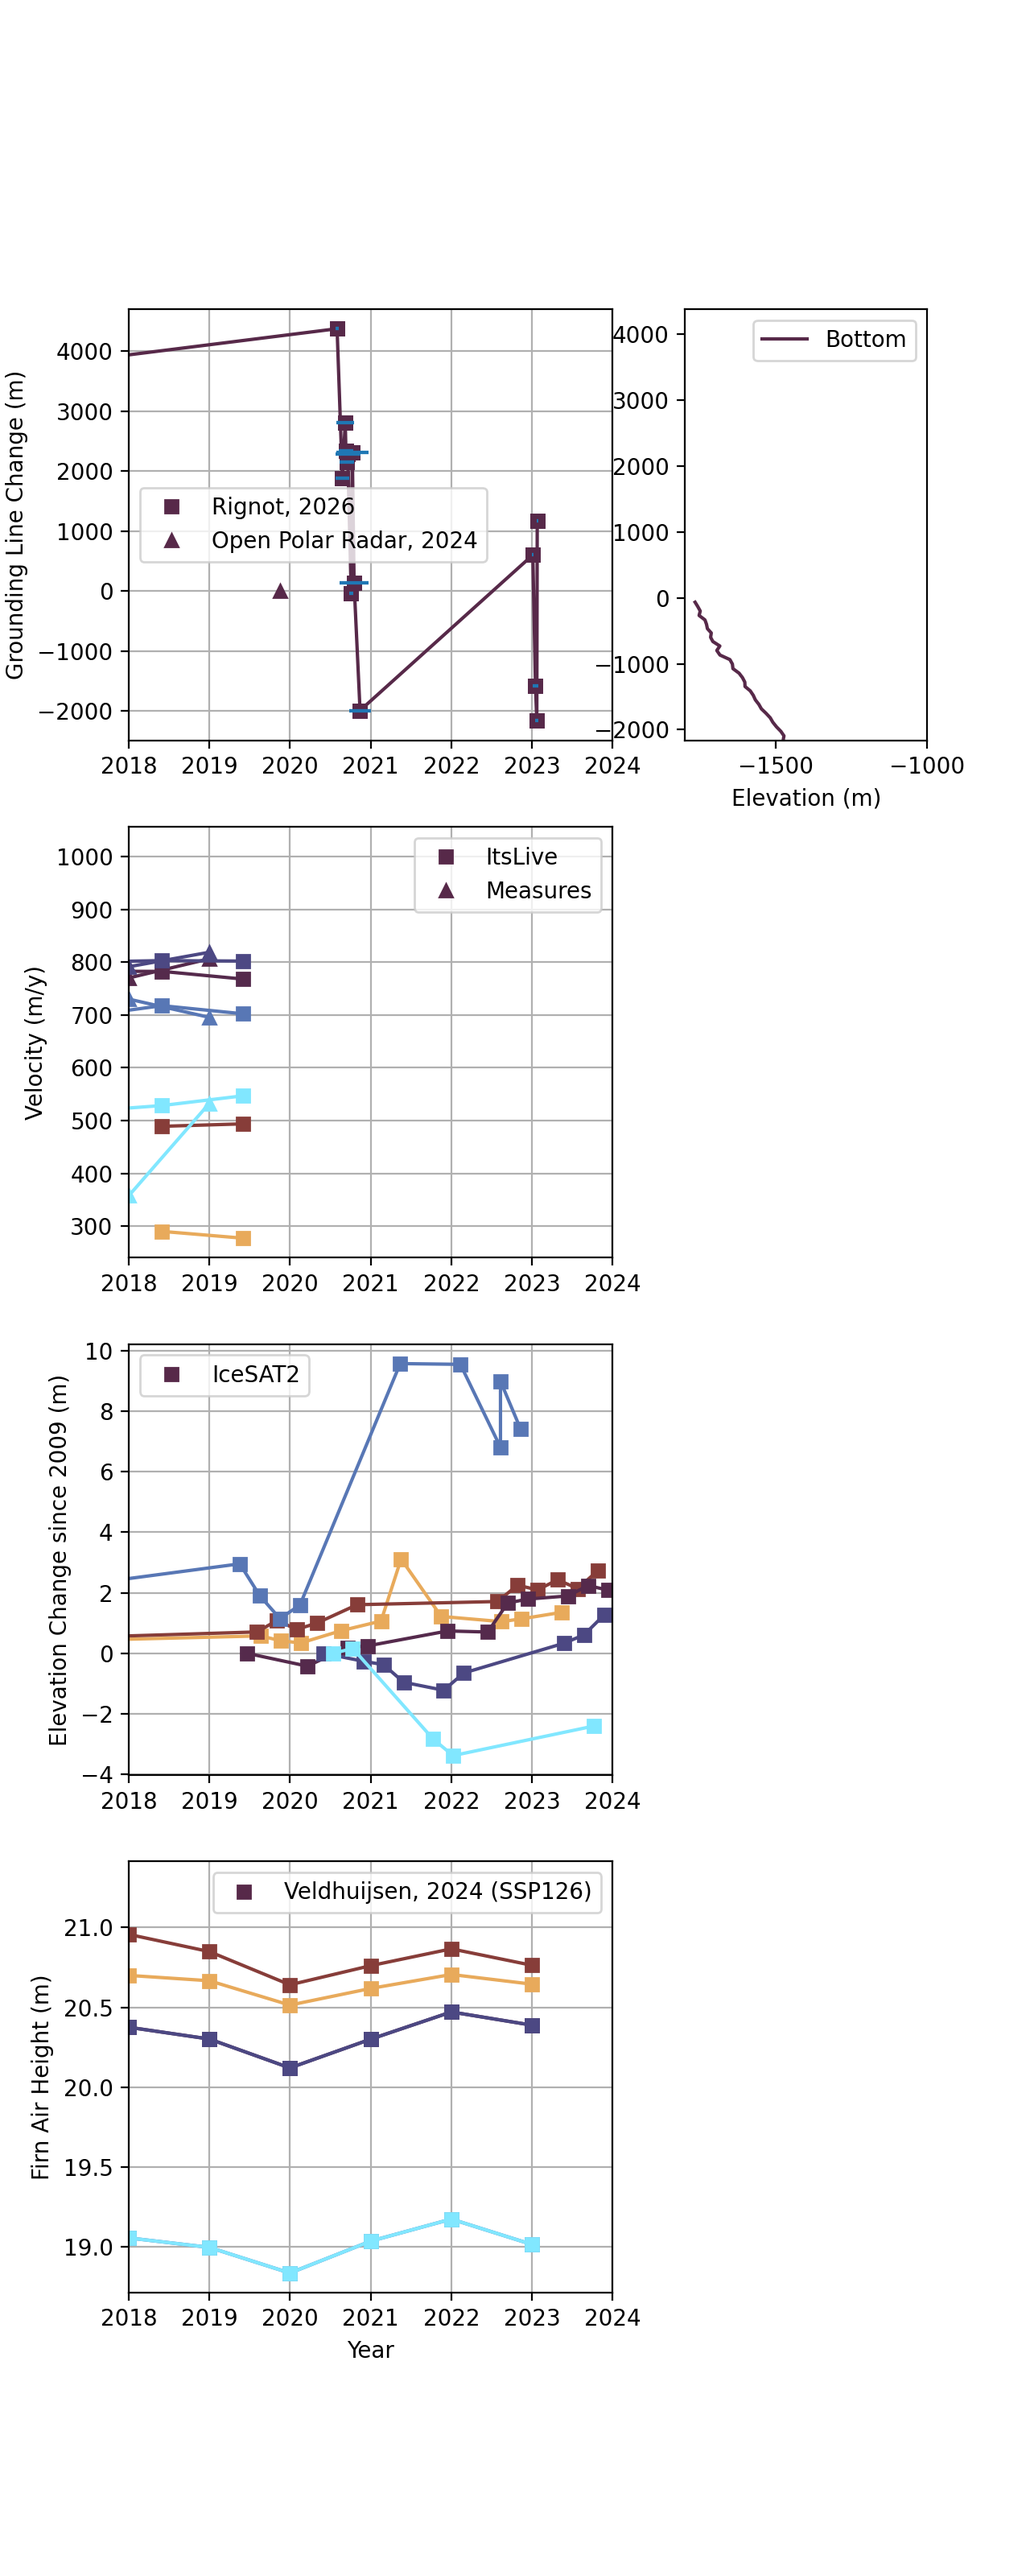
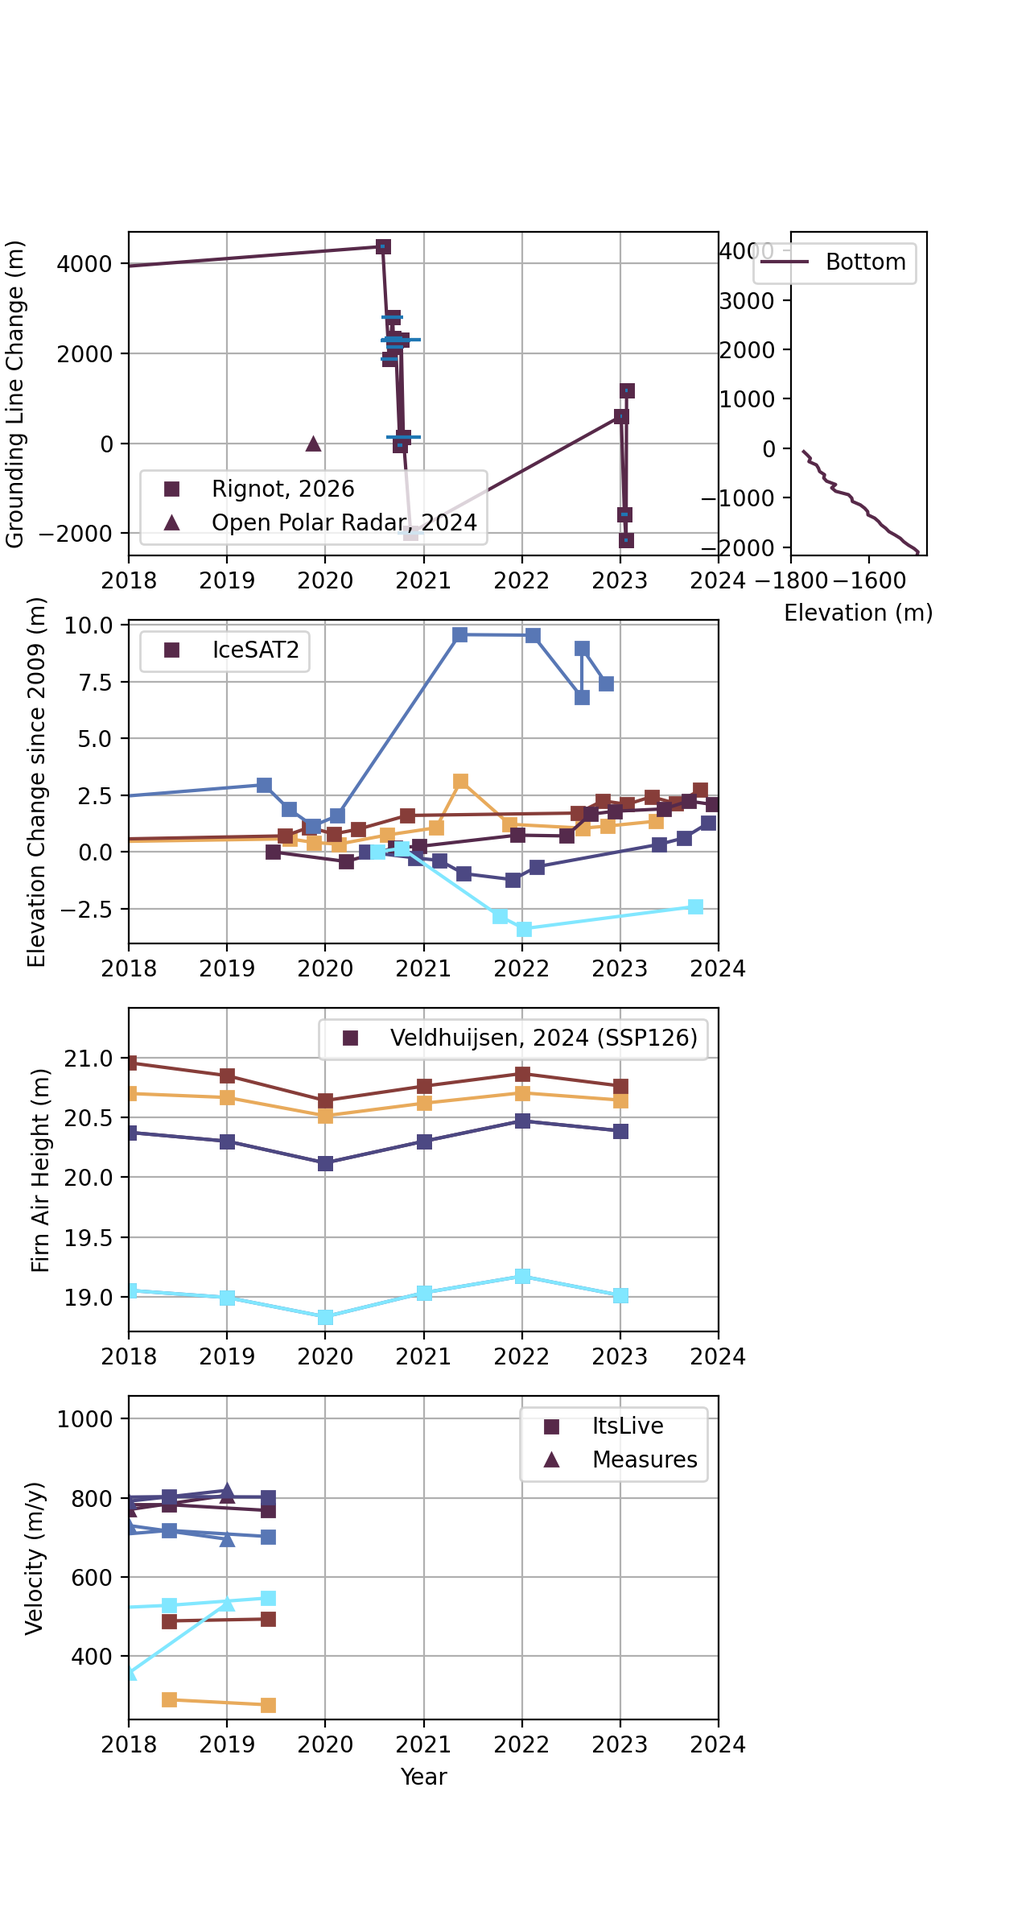
gif and fuller chart for meeting

diff --git a/src/file_manager.py b/src/file_manager.py
@@ -516,21 +516,34 @@ class ElevationManager(FileManager):
         found_files = []
         found_years = []
         found_sources = []
+        found_err = []
         
 
 
         for i, f in enumerate(f):
             cur = xr.open_dataset(f)
-            df = cur.sel(x=p[1], y=p[0], method='nearest').squeeze()['band_data'].values
-            if np.isnan(df) or df == 0:
+            df = cur.sel(x=p[1], y=p[0], method='nearest').squeeze()
+
+            if np.isnan(df['band_data'].values) or df['band_data'].values == 0:
                 continue
-            found_files.append(df)
+            
+            if self.data + '_yerr' in df.columns:
+                found_err.append(df[self.data + '_yerr'].values)
+
+            found_files.append(df['band_data'].values)
             found_years.append(years[i])
             found_sources.append('Coregistered REMA')
 
-        df = pd.DataFrame({'time': found_years,
+
+        dataset = {'time': found_years,
                            'sources': found_sources,
-                           self.data: found_files})
+                           self.data: found_files}
+        if len(found_err) != 0:
+            dataset[[self.data + '_yerr']] = found_err
+
+
+
+        df = pd.DataFrame(dataset)
         
         return df
 
@@ -655,12 +668,14 @@ class ElevationManager(FileManager):
                 df = pd.DataFrame({'latitude': track['latitude'][dates == c].flatten(),
                                     'longitude': track['longitude'][dates == c].flatten(), 
                                     'elevation': track['h_corr'][dates == c].flatten(),
+                                    'elevation_yerr': track['h_corr_sigma'][dates == c].flatten(),
                                     'date': track['datetime'][dates == c].flatten()})
                 df['geometry'] = df.apply(self.pointify, axis=1)
                 self.file[c] = pd.concat([self.file[c], df])
             
             cur_track += 1
             progress.load_bar(cur_track, max)
+
 
         i = 0
         for c in self.file.keys():
@@ -669,6 +684,8 @@ class ElevationManager(FileManager):
                 continue
             try:
                 gdf_final = gpd.GeoDataFrame(self.file[c], geometry='geometry', crs='EPSG:4326')
+                print(gdf_final)
+                print(self.get_elevation_fname(c))
                 gdf_final.to_file(TIF_LOCATION + self.get_elevation_fname(c), driver='GPKG')
             except:
                     ('Saving year ' + str(c) + ' gpkg failed.')

diff --git a/src/main.py b/src/main.py
@@ -95,7 +95,7 @@ class main():
         #print(self.build_files())
         #print(self.build_files(data='elev'))
         #print(self.build_files(data='rema'))
-        print(self.build_files(data='firn'))
+        #print(self.build_files(data='firn'))
 
         #self.get_elevation_error()
 
@@ -204,7 +204,7 @@ class main():
 
     
 
-    def get_points_timeline(self, point, data = ['gl', 'vel', 'elev', 'firn'], change = True, rema=False): #['vel', 'elev', 'grav'] #  'vel', 'elev', 'firn'
+    def get_points_timeline(self, point, data = ['gl', 'elev', 'firn', 'vel'], change = True, rema=False): #['vel', 'elev', 'grav'] #  'vel', 'elev', 'firn'
 
         labels = {
             'vel': "Velocity (m/y)",
@@ -228,19 +228,19 @@ class main():
             labels['gl'] = 'Grounding Line (m)'
 
 
-        gl_elevation_width = 0.5
+        gl_elevation_width = 0.35
 
         width_ratios = [1, 0]
         if 'gl' in data:
-            width_ratios = [1, gl_elevation_width]
+            width_ratios = [1-gl_elevation_width, gl_elevation_width - .2]
         if len(data) == 1:
             data.append('')
 
         fig, ax = plt.subplots(len(data), 2, gridspec_kw={'width_ratios': width_ratios})
-        fig.set_figheight(4*len(data))
+        fig.set_figheight(3*len(data))
 
         if width_ratios[1] > 1:
-            fig.set_figwidth(5 + (gl_elevation_width * 2))
+            fig.set_figwidth(4)
 
 
         for i, d in enumerate(data):

diff --git a/src/pointwise.py b/src/pointwise.py
@@ -127,6 +127,11 @@ class Pointwize():
 
 
     def gpd_geom_match(self, out, index, column_of_interest = 'elevation', add_result=False, date_col='date'):
+
+        '''rename_for_datasource = {'elev': {'_xerr': '_xerr'},
+                                 'gl': {}}
+        out = out.rename(columns=rename_for_datasource[self.data])'''
+        
         if type(index) == int:
             p = self.points[index]
             df_ref = self.create_point_df([p])
@@ -359,7 +364,7 @@ class Pointwize():
         ax.legend()
 
         ax.set_ylim(min(self.results[''][self.data].values), max(self.results[''][self.data].values))
-        ax.set_xlim(-1800, -1000)
+        ax.set_xlim(-1800, -1450)
 
         #ax.set_ylabel("Grounding Line Change (m)")
         ax.set_xlabel("Elevation (m)")
